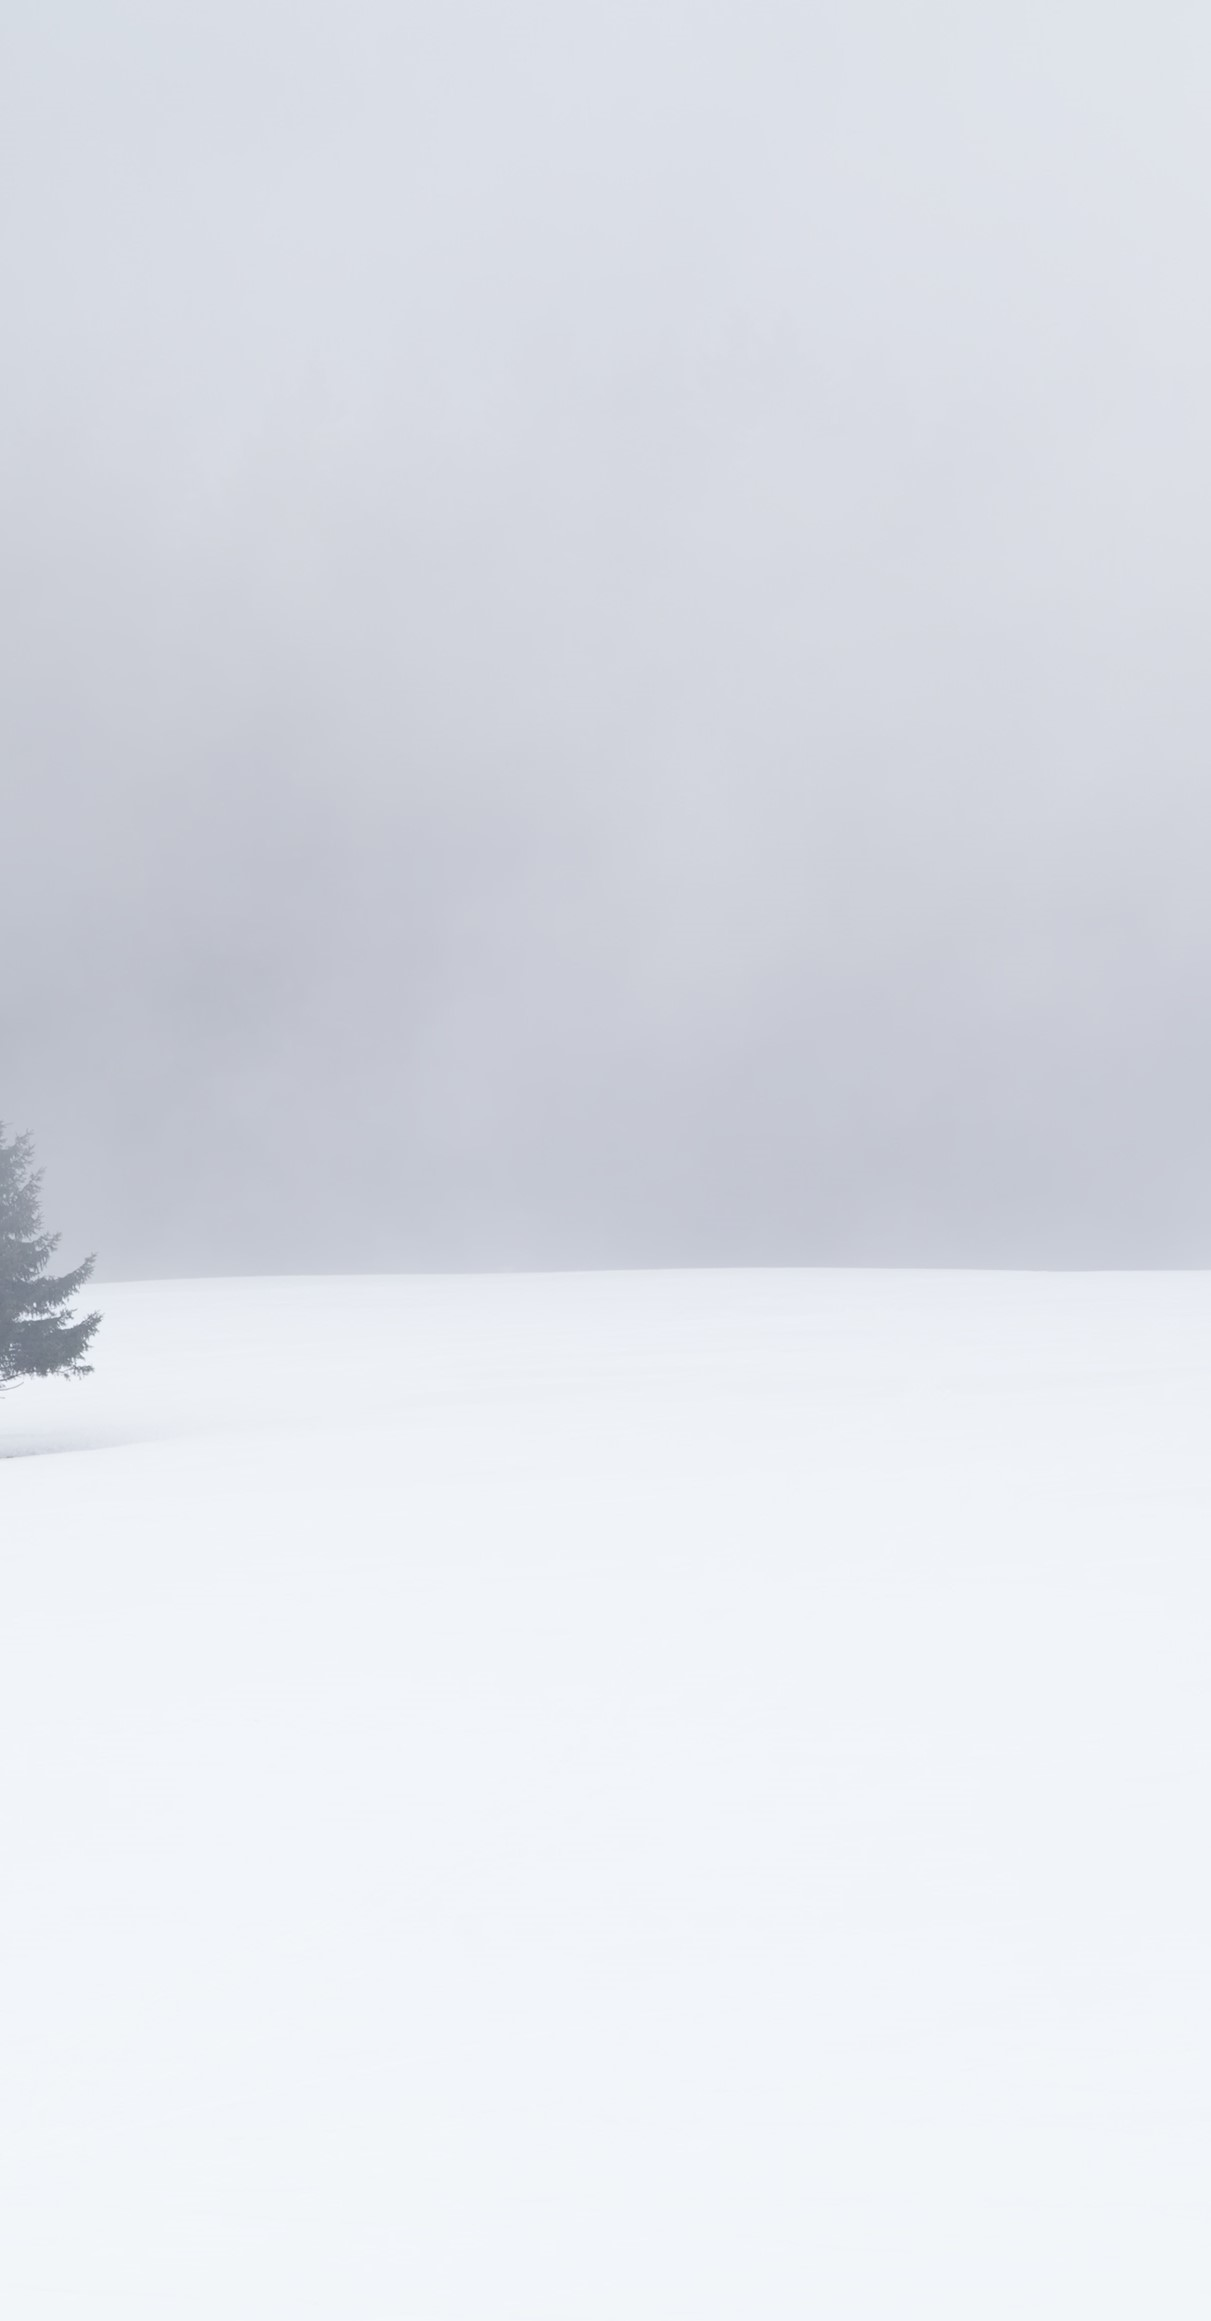
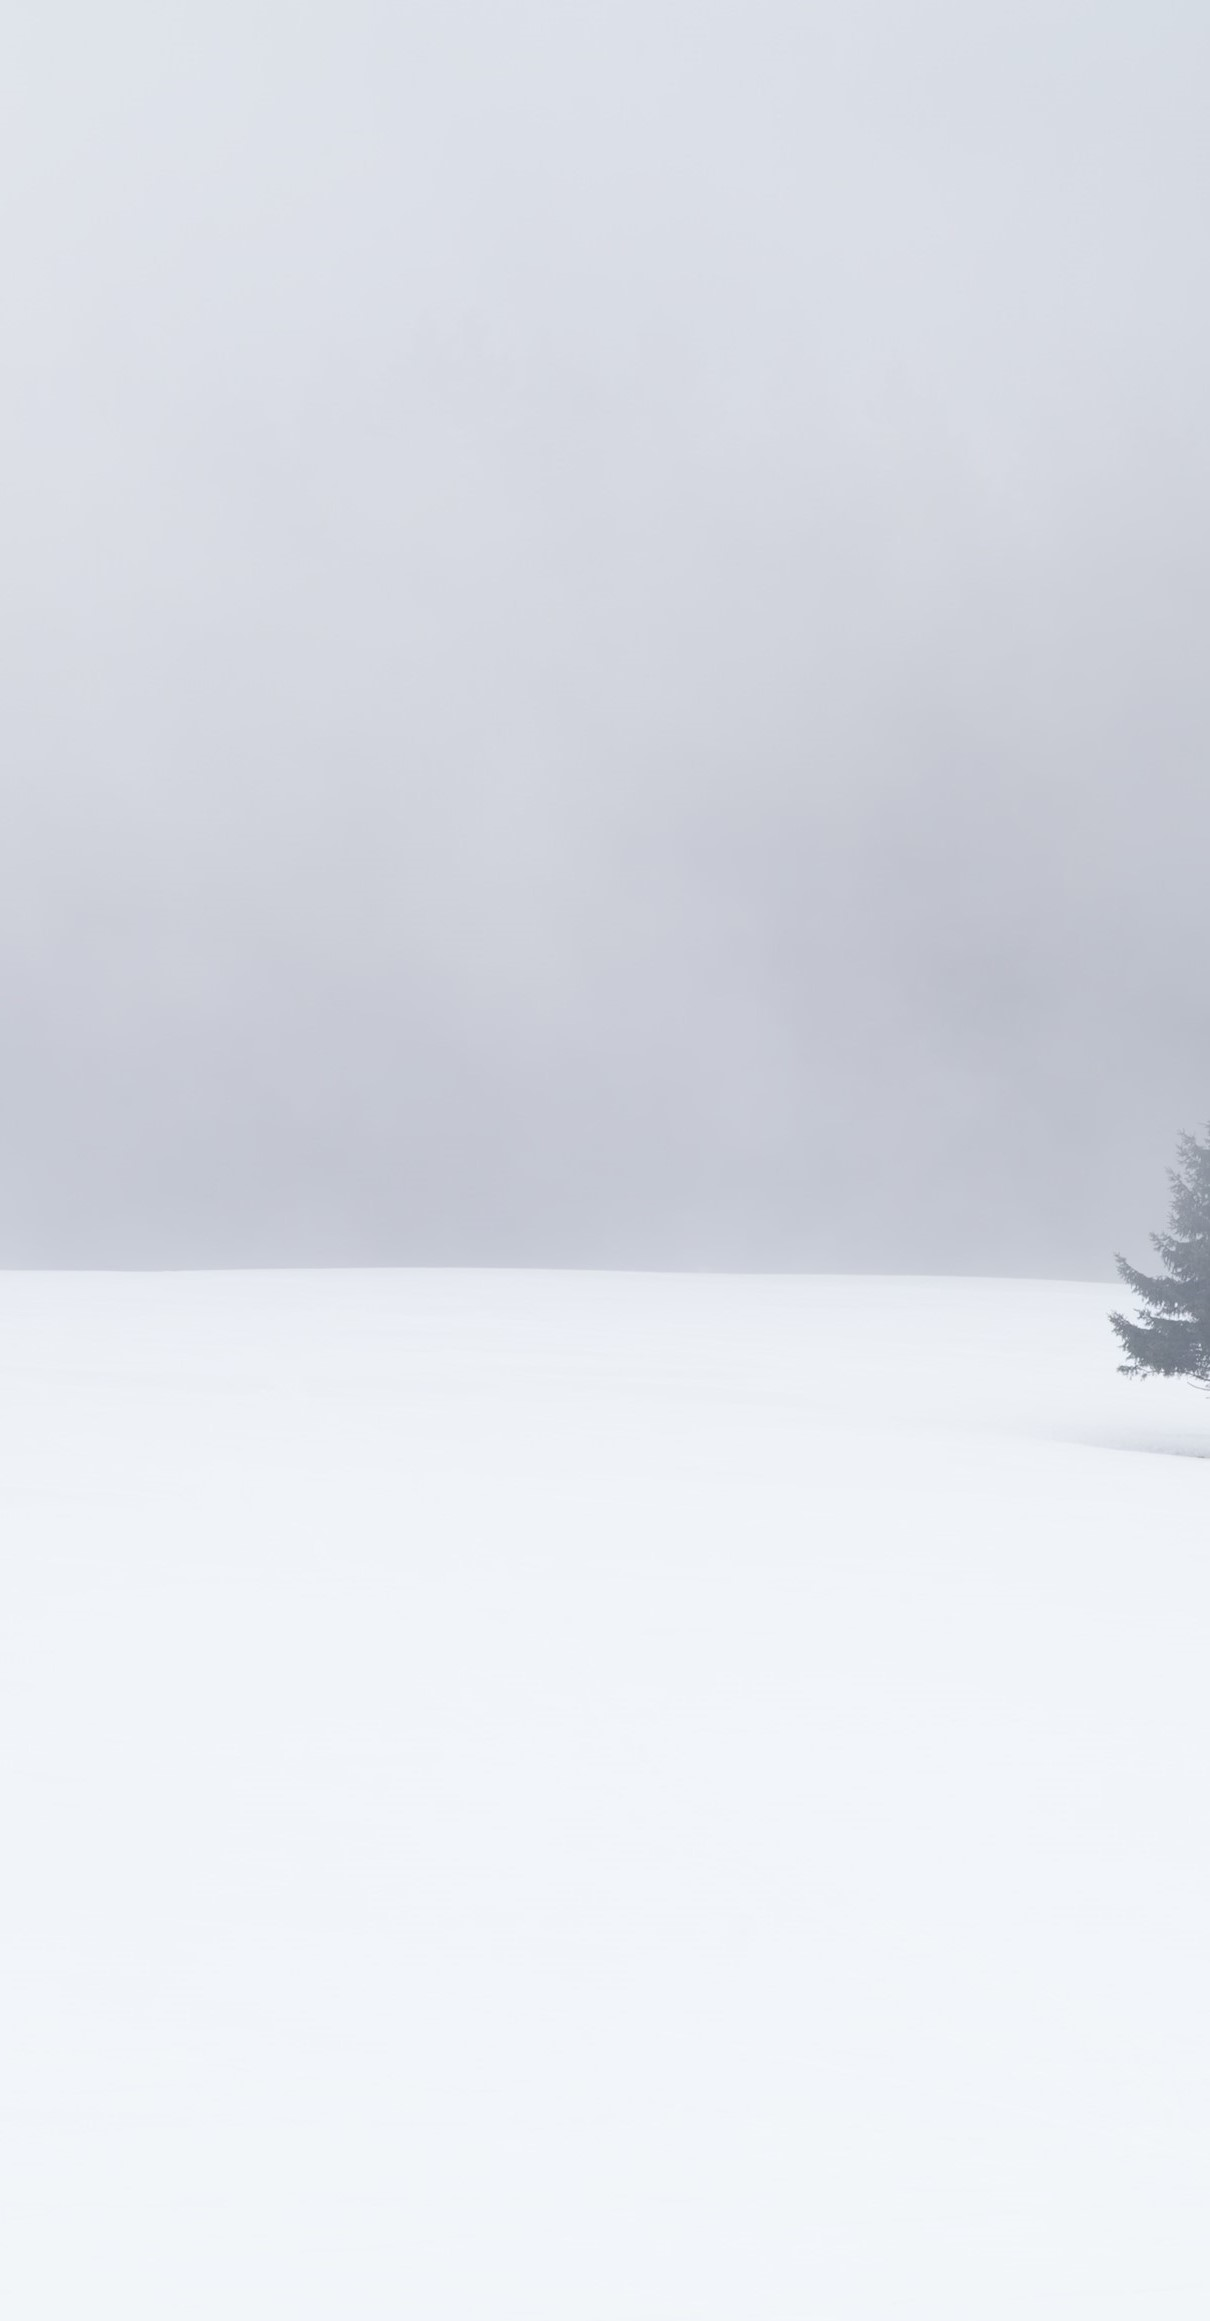
Scrollable backgrounds for all

Changed region(s): [[0.8868, 0.4653, 1.0, 0.6514], [0.0, 0.4653, 0.1223, 0.6514]]

diff --git a/projects/writing/sigurd/static/odinsbane.css b/projects/writing/sigurd/static/odinsbane.css
@@ -107,16 +107,13 @@ body:after {
     background-position: bottom right;
 }
 @media (min-width: 30em) and (orientation: landscape) {
-    body {
-        background: white url("images/spruce-background - landscape.jpg") no-repeat center center;
-        background-size: 100% 100%;
+    body:after {
+        background: white url("images/spruce-background - landscape.jpg");
     }
 }
 @media (min-width: 60em) {
-    body {
-        background: white url("images/spruce-background.jpg") no-repeat center center;
-        background-attachment: fixed;
-        background-size: cover;
+    body:after {
+        background: white url("images/spruce-background.jpg");
     }
 }
 

diff --git a/projects/writing/static/odinsbane.css b/projects/writing/static/odinsbane.css
@@ -107,16 +107,13 @@ body:after {
     background-position: bottom right;
 }
 @media (min-width: 30em) and (orientation: landscape) {
-    body {
-        background: white url("images/spruce-background - landscape.jpg") no-repeat center center;
-        background-size: 100% 100%;
+    body:after {
+        background: white url("images/spruce-background - landscape.jpg");
     }
 }
 @media (min-width: 60em) {
-    body {
-        background: white url("images/spruce-background.jpg") no-repeat center center;
-        background-attachment: fixed;
-        background-size: cover;
+    body:after {
+        background: white url("images/spruce-background.jpg");
     }
 }
 

diff --git a/projects/writing/sigurd/static/author.css b/projects/writing/sigurd/static/author.css
@@ -7,9 +7,13 @@ div.buttonBox {
 
 body {
     background: url("images/author-background.jpg") no-repeat right bottom;
-    background-size: 15% 30%;
+    background-size: 25% 30%;
 }
-
+@media (min-width: 60em) {
+    button {
+        background-size: 15% 30%;
+    }
+}
 
 
 

diff --git a/projects/writing/static/author.css b/projects/writing/static/author.css
@@ -7,9 +7,13 @@ div.buttonBox {
 
 body {
     background: url("images/author-background.jpg") no-repeat right bottom;
-    background-size: 15% 30%;
+    background-size: 25% 30%;
 }
-
+@media (min-width: 60em) {
+    button {
+        background-size: 15% 30%;
+    }
+}
 
 
 
